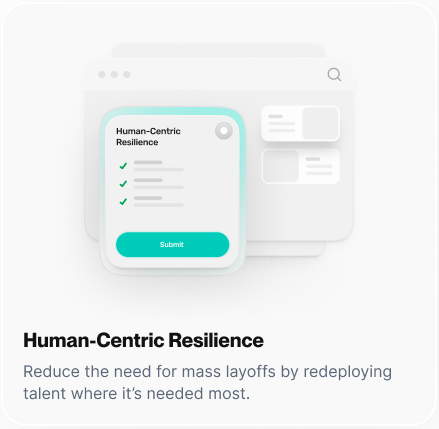
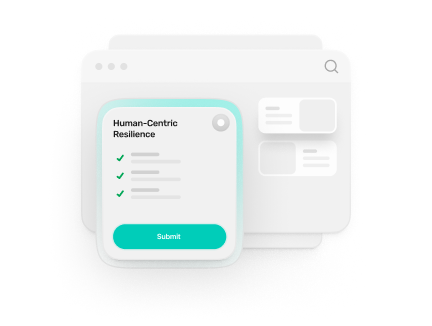
Section fix

diff --git a/src/components/whydifferent/WhyDifferent.tsx b/src/components/whydifferent/WhyDifferent.tsx
@@ -20,26 +20,26 @@ export default function WhyDifferentSection() {
             title="A Private Network for Trading Expertise and Capacity"
             icon={
               <span className="p-1.25 bg-primary-400 rounded-full animate-pingk">
-                <span className="block w-1.5 h-1.5 rounded-full bg-primary-800 animate-ping" />
+                <span className="block h-1.5 w-1.5 rounded-full bg-primary-800 animate-ping" />
               </span>
             }
           />
         </div>
 
         <div className="mx-auto mt-6 max-w-3xl text-center">
-          <h2 className="text-4xl md:text-6xl font-semibold tracking-tight text-slate-900">
+          <h2 className="text-4xl font-semibold tracking-tight text-slate-900 md:text-6xl">
             Why egtos Is Different
           </h2>
-          <p className="mt-4 text-sm md:text-base text-slate-600">
-
-            egtos enables companies to create and participate in private trading networks where
-            excess capacity, skills, and expertise can be exchanged using tokens.
+          <p className="mt-4 text-sm text-slate-600 md:text-base">
+            egtos enables companies to create and participate in private trading networks where excess
+            capacity, skills, and expertise can be exchanged using tokens.
           </p>
         </div>
 
         <div className="mt-14 grid gap-6 md:grid-cols-12">
-           <div className="md:col-span-8">
-            <div className="relative h-[320px] md:h-[360px] w-full overflow-hidden rounded-3xl bg-white/35 ring-1 ring-white/50 shadow-[0_18px_60px_rgba(15,23,42,0.08)]">
+          {/* MAIN */}
+          <div className="md:col-span-8">
+            <div className="relative h-[320px] w-full overflow-hidden rounded-3xl bg-white/35 ring-1 ring-white/50 shadow-[0_18px_60px_rgba(15,23,42,0.08)] md:h-[360px]">
               <Image
                 src="/wdmaincard.png"
                 alt="Why different main"
@@ -50,48 +50,63 @@ export default function WhyDifferentSection() {
             </div>
           </div>
 
+          {/* CARD 1 */}
           <div className="md:col-span-4">
-            <div className="relative h-[320px] md:h-[360px] w-full overflow-hidden rounded-3xl bg-white/35 ring-1 ring-white/50 shadow-[0_18px_60px_rgba(15,23,42,0.08)]">
-              <Image
-                src="/wd1card.png"
-                alt="Why different card"
-                fill
-                className="object-cover"
-              />
+            <div className="relative h-[320px] w-full overflow-hidden rounded-3xl bg-white/35 ring-1 ring-white/50 shadow-[0_18px_60px_rgba(15,23,42,0.08)] md:h-[360px]">
+              <Image src="/wd1card.png" alt="Card 1" fill className="object-cover" />
+              <div className="absolute bottom-0 left-0 right-0 p-6">
+                <h3 className="text-lg font-semibold text-black md:text-xl">
+                  Human-Centric Resilience
+                </h3>
+                <p className="mt-2 text-sm leading-relaxed text-black/85">
+                  Reduce the need for mass layoffs by redeploying talent where it’s needed most.
+                </p>
+              </div>
             </div>
           </div>
 
-          
+          {/* CARD 2 */}
           <div className="md:col-span-4">
-            <div className="relative h-[320px] md:h-[360px] w-full overflow-hidden rounded-3xl bg-white/35 ring-1 ring-white/50 shadow-[0_18px_60px_rgba(15,23,42,0.08)]">
-              <Image
-                src="/wd2card.png"
-                alt="Why different card"
-                fill
-                className="object-cover"
-              />
+            <div className="relative h-[320px] w-full overflow-hidden rounded-3xl bg-white/35 ring-1 ring-white/50 shadow-[0_18px_60px_rgba(15,23,42,0.08)] md:h-[360px]">
+              <Image src="/wd2card.png" alt="Card 2" fill className="object-cover" />
+              <div className="absolute bottom-0 left-0 right-0 p-6">
+                <h3 className="text-lg font-semibold text-black md:text-xl">
+                  Trusted Networks
+                </h3>
+                <p className="mt-2 text-sm leading-relaxed text-black/85">
+                  Operate inside pre-cleared private networks designed for control, compliance, and quality.
+                </p>
+              </div>
             </div>
           </div>
 
+          {/* CARD 3 */}
           <div className="md:col-span-4">
-            <div className="relative h-[320px] md:h-[360px] w-full overflow-hidden rounded-3xl bg-white/35 ring-1 ring-white/50 shadow-[0_18px_60px_rgba(15,23,42,0.08)]">
-              <Image
-                src="/wd3card.png"
-                alt="Why different card"
-                fill
-                className="object-cover"
-              />
+            <div className="relative h-[320px] w-full overflow-hidden rounded-3xl bg-white/35 ring-1 ring-white/50 shadow-[0_18px_60px_rgba(15,23,42,0.08)] md:h-[360px]">
+              <Image src="/wd3card.png" alt="Card 3" fill className="object-cover" />
+              <div className="absolute bottom-0 left-0 right-0 p-6">
+                <h3 className="text-lg font-semibold text-black md:text-xl">
+                  Tokenized Collaboration
+                </h3>
+                <p className="mt-2 text-sm leading-relaxed text-black/85">
+                  Exchange skills and capacity using tokens—making internal redeployment measurable and efficient.
+                </p>
+              </div>
             </div>
           </div>
 
+          {/* CARD 4 */}
           <div className="md:col-span-4">
-            <div className="relative h-[320px] md:h-[360px] w-full overflow-hidden rounded-3xl bg-white/35 ring-1 ring-white/50 shadow-[0_18px_60px_rgba(15,23,42,0.08)]">
-                <Image  
-                  src="/wd4card.png"
-                  alt="Why different card"
-                  fill
-                  className="object-cover"
-                />
+            <div className="relative h-[320px] w-full overflow-hidden rounded-3xl bg-white/35 ring-1 ring-white/50 shadow-[0_18px_60px_rgba(15,23,42,0.08)] md:h-[360px]">
+              <Image src="/wd4card.png" alt="Card 4" fill className="object-cover" />
+              <div className="absolute bottom-0 left-0 right-0 p-6">
+                <h3 className="text-lg font-semibold text-black md:text-xl">
+                  Enterprise-Grade Assurance
+                </h3>
+                <p className="mt-2 text-sm leading-relaxed text-black/85">
+                  Built-in screening and governance so you can scale expertise without sacrificing standards.
+                </p>
+              </div>
             </div>
           </div>
         </div>

diff --git a/src/components/solution/Solution.tsx b/src/components/solution/Solution.tsx
@@ -9,12 +9,25 @@ const IMAGES = {
   left: "/s1card.svg",
   right: "/s2card.svg",
   bottom: "/s3card.svg",
+   bg: "/solutionbg.svg",
 };
 
 
 export default function SolutionSection() {
   return (
     <section className="relative w-full overflow-hidden bg-slate-50 py-20">
+
+      <div className="pointer-events-none absolute inset-0 ">
+        <Image
+          src={IMAGES.bg}
+          alt="Solution background"
+          fill
+          priority
+          className="object-cover "
+          sizes="50vw"
+        />
+      </div>
+      
       <div className="pointer-events-none absolute inset-0">
         <div className="absolute inset-0 opacity-40 [background-size:48px_48px] [background-image:linear-gradient(to_right,rgba(2,132,199,0.08)_1px,transparent_1px),linear-gradient(to_bottom,rgba(2,132,199,0.08)_1px,transparent_1px)]" />
         <div className="absolute inset-0 opacity-35 [background-size:120px_100%] [background-image:linear-gradient(to_right,rgba(2,132,199,0.06)_1px,transparent_1px)]" />

diff --git a/src/components/aboutus/hero/Hero.tsx b/src/components/aboutus/hero/Hero.tsx
@@ -17,7 +17,7 @@ const bullets = [
 const Hero = () => {
   return (
    <section
-         className="relative w-full h-[50vh] md:h-screen xl:h-[110vh] bg-primary-900 overflow-hidden pl-48 py-24"
+         className="relative w-full h-[50vh] md:h-screen xl:h-[100vh] bg-primary-900 overflow-hidden pl-48 py-24"
        >
          <Image
            src="/aboutbg-grid.png"
